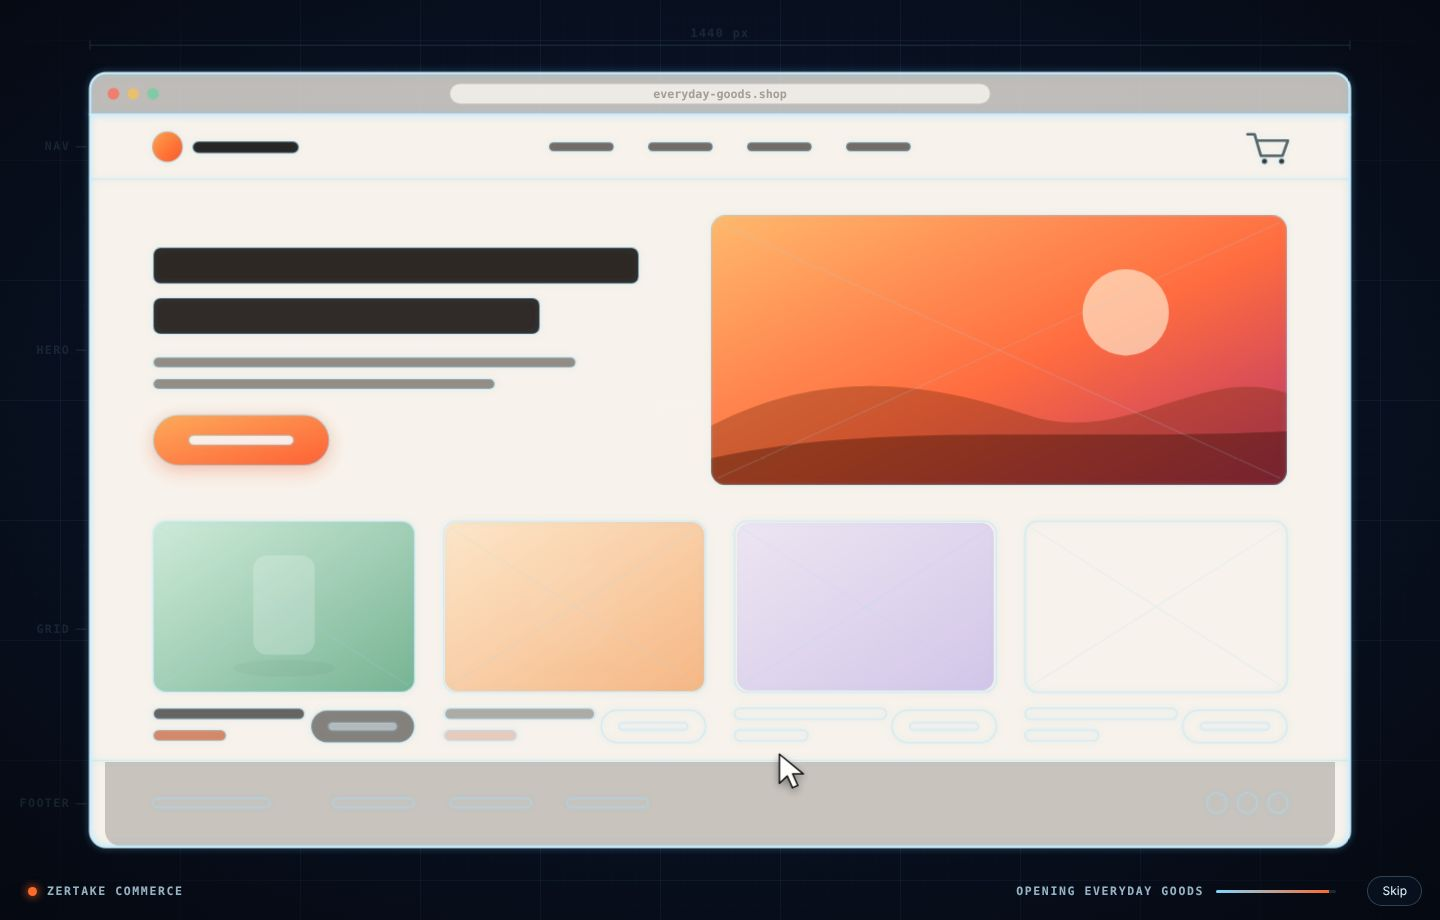
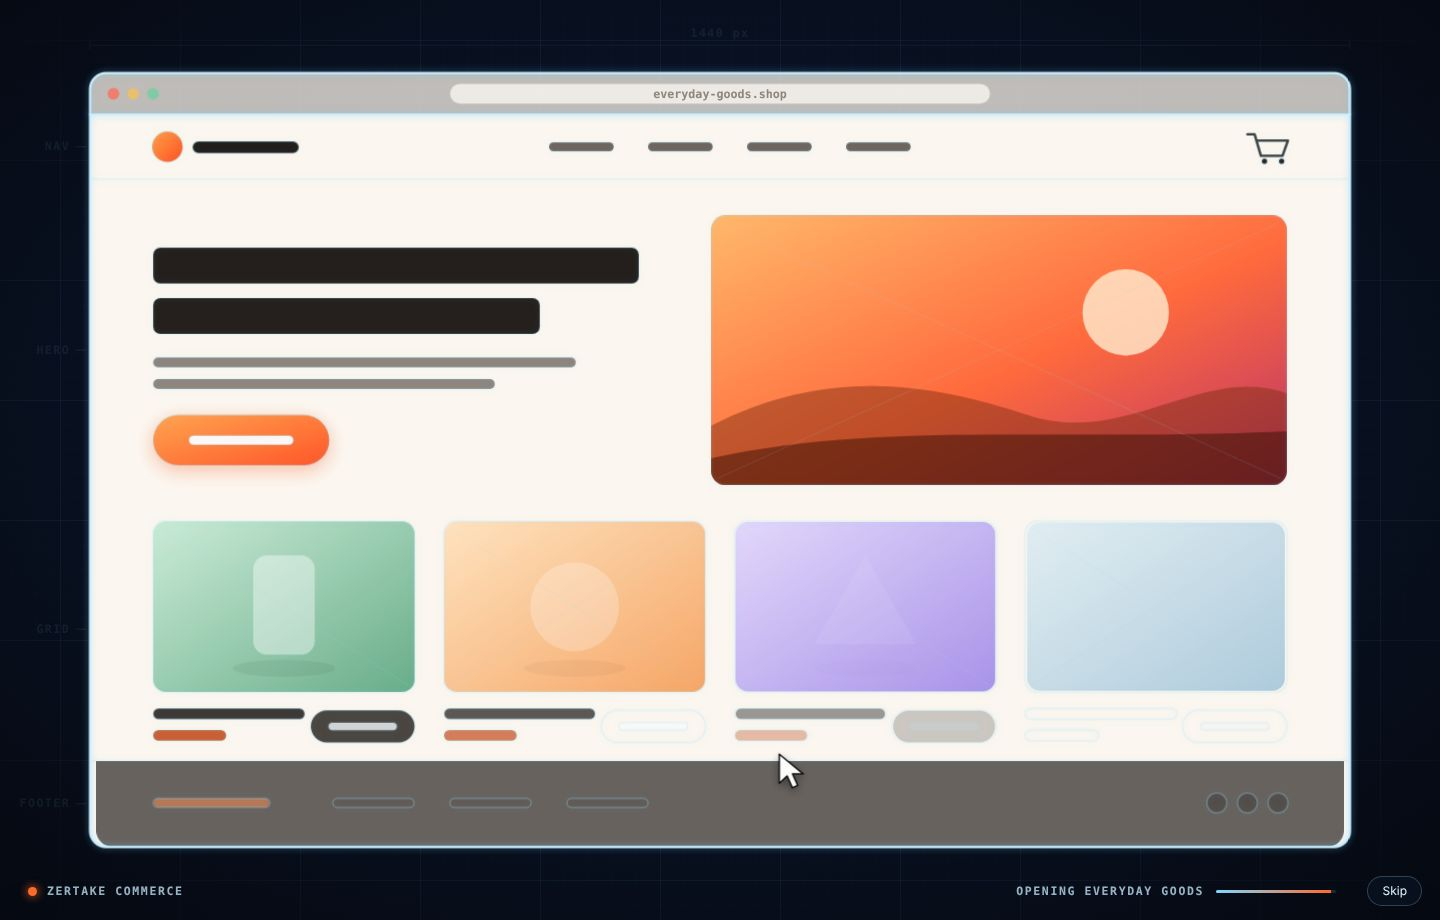
Commerce: full-width pages, frosted blur-glass panels over soft colour fields, globe on the right of the visitors card
Claude-Session: https://claude.ai/code/session_01PmSjxu4iRtUWvk8HBnFi9e

Changed region(s): [[0.0625, 0.5478, 0.9375, 0.9435], [0.125, 0.3043, 0.375, 0.3348], [0.5, 0.487, 0.5625, 0.5478]]

diff --git a/dist/css/admin.css b/dist/css/admin.css
@@ -748,3 +748,37 @@ select.caInput option, select.caTagInput option { background: var(--ca-solid); c
 /* KPI cards on Home: change pill on its own line, previous value under it (same height in every card) */
 .caHome .caKpi .caKpiFoot { flex-direction: column; align-items: flex-start; gap: 6px; }
 .caHome .caKpi .caKpiFoot > span:last-child { white-space: nowrap; overflow: hidden; text-overflow: ellipsis; max-width: 100%; }
+
+/* ---- full-width pages ---- */
+.caPage { max-width: none; }
+.caPage.narrow { max-width: 1120px; }
+
+/* ---- frosted (blurred) glass: soft colour fields behind translucent, heavily blurred panels ---- */
+.caRoot:not([data-theme="dark"]) {
+  --ca-canvas:
+    radial-gradient(620px 520px at 8% 12%, rgba(255, 170, 120, .55), transparent 70%),
+    radial-gradient(700px 560px at 92% 8%, rgba(160, 196, 170, .55), transparent 70%),
+    radial-gradient(760px 620px at 70% 96%, rgba(196, 178, 255, .45), transparent 70%),
+    radial-gradient(560px 480px at 22% 88%, rgba(255, 214, 150, .45), transparent 70%),
+    #ebe8e2;
+  --ca-surface: rgba(255, 255, 255, .55);
+  --ca-surface-2: rgba(255, 255, 255, .45);
+  --ca-surface-3: rgba(255, 255, 255, .62);
+  --ca-card-line: rgba(255, 255, 255, .7);
+  --ca-blur: blur(28px) saturate(160%);
+  --ca-shadow: inset 0 1px 0 rgba(255, 255, 255, .65), 0 1px 2px rgba(48, 38, 20, .04), 0 18px 40px -20px rgba(48, 38, 20, .22);
+}
+.caRoot[data-theme="dark"] {
+  --ca-canvas:
+    radial-gradient(640px 520px at 6% 10%, rgba(255, 122, 47, .22), transparent 70%),
+    radial-gradient(700px 600px at 94% 6%, rgba(242, 176, 72, .16), transparent 70%),
+    radial-gradient(820px 640px at 72% 98%, rgba(110, 128, 255, .18), transparent 70%),
+    #0a0a0c;
+  --ca-surface: rgba(28, 28, 33, .42);
+  --ca-surface-2: rgba(255, 255, 255, .05);
+  --ca-card-line: rgba(255, 255, 255, .09);
+  --ca-blur: blur(30px) saturate(150%);
+}
+.caRoot:not(.caPicker) { background-attachment: fixed; }
+/* menus, popovers and modals get the same frosted look */
+.caSearchList, .caMenu, .caPopover, .caModal, .caDialog { backdrop-filter: blur(28px) saturate(160%); -webkit-backdrop-filter: blur(28px) saturate(160%); }

diff --git a/dist/css/globe.css b/dist/css/globe.css
@@ -11,7 +11,7 @@
 .caGlobeStats span { display: inline-flex; align-items: baseline; gap: 5px; padding: 6px 11px; border-radius: 999px; font-size: 12px; color: rgba(243, 238, 232, .7);
   background: rgba(255, 255, 255, .05); border: 1px solid rgba(255, 255, 255, .08); }
 .caGlobeStats strong { color: #ff9a52; font-size: 14px; font-variant-numeric: tabular-nums; }
-.caGlobeBody { position: relative; display: grid; grid-template-columns: minmax(0, 1.35fr) minmax(260px, 1fr); gap: 8px 24px; padding: 4px 24px 22px 8px; align-items: center; }
+.caGlobeBody { position: relative; display: grid; grid-template-columns: minmax(280px, 1fr) minmax(0, 1.25fr); gap: 8px 28px; padding: 8px 8px 22px 24px; align-items: center; }
 .caGlobeStage { position: relative; aspect-ratio: 1 / 1; max-height: 520px; width: 100%; justify-self: center; }
 .caGlobeCanvas { display: block; width: 100%; height: 100%; touch-action: none; cursor: grab; }
 .caGlobeCanvas.dragging { cursor: grabbing; }
@@ -43,3 +43,12 @@
   .caGlobeStage { max-width: 440px; }
   .caGlobeHead { padding: 16px 16px 0; }
 }
+
+/* list on the left, globe on the right; the list sits on a blurred glass panel */
+.caGlobeStage { order: 2; }
+.caGlobeSide { order: 1; padding: 18px; border-radius: 18px; background: rgba(255, 255, 255, .05); border: 1px solid rgba(255, 255, 255, .08);
+  backdrop-filter: blur(24px) saturate(150%); -webkit-backdrop-filter: blur(24px) saturate(150%); box-shadow: inset 0 1px 0 rgba(255, 255, 255, .06); align-self: center; align-content: start; }
+.caGlobeCard::after { content: ""; position: absolute; right: -10%; top: 10%; width: 60%; height: 80%; pointer-events: none; background: radial-gradient(closest-side, rgba(255, 122, 47, .18), transparent); filter: blur(30px); }
+.caGlobeHead, .caGlobeBody { z-index: 1; }
+.caGlobeStats > * { backdrop-filter: blur(16px); -webkit-backdrop-filter: blur(16px); }
+@media (max-width: 900px) { .caGlobeStage { order: 1; } .caGlobeSide { order: 2; } }
